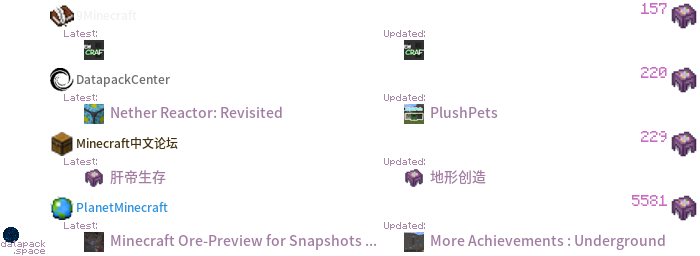
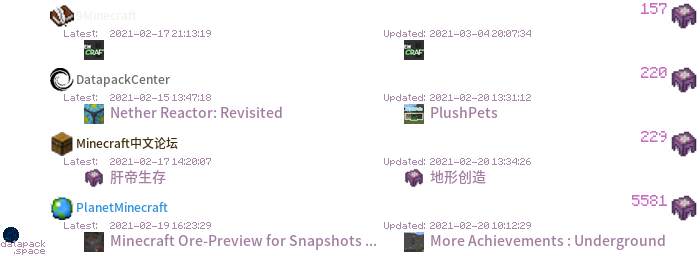
2021.3.10

diff --git a/util/cache.py b/util/cache.py
@@ -212,15 +212,15 @@ class datapack_cache:
                 self.cur.execute(f'''
                 insert into datapack_tag_relations_cache (datapack_id, tag_id, status) values ('{did}', '{tid}', '+')
                 on duplicate key
-                update datapack_id = '{did}', tag_id = '{tid}', status = '+';
+                update status = '+';
                 ''')
-            if tid in tag_id_old:
+            else:
                 tag_id_old.remove(tid)
         for tid in tag_id_old: # delete relation
             self.cur.execute(f'''
             insert into datapack_tag_relations_cache (datapack_id, tag_id, status) values ('{did}', '{tid}', '-')
             on duplicate key
-            update datapack_id = '{did}', tag_id = '{tid}', status = '-';
+            update status = '-';
             ''')
         # cache image
         if not info['author_avatar'] in [None, 'auto', 'none', '']:
@@ -235,7 +235,6 @@ class datapack_cache:
             did = self.cache(info)
             self.connection.commit()
             print(did, ':', info['link'], 'has been imported into cache successfully.')
-
         if interrupt: # the process will quit immediately when error occurs
             insert_process(info)
         else: # the process won't quit when error occurs, but retry or log the error.

diff --git a/util/collector.py b/util/collector.py
@@ -164,10 +164,15 @@ class datapack_collector:
     def __async_analyze(self, target_list: list, interrupt = False):
         def analyze(post):
             def _anl_():
+                post_i = {}
                 if self.schema['post_type'] == 'url':
-                    self.info_list.append(self.__post_analyze(post, self.schema['domain']))
+                    post_i = self.__post_analyze(post, self.schema['domain'])
                 else:
-                    self.info_list.append(self.__post_analyze(post))
+                    post_i = self.__post_analyze(post)
+                if not 'name' in post_i or post_i['name'] in [None, '']:  # invalid datapack
+                    print('error: datapack name cannot be null (may be 404)')
+                    return
+                self.info_list.append(post_i)
             if interrupt:
                 _anl_()
             else:

diff --git a/__stats__.py b/__stats__.py
@@ -142,7 +142,9 @@ def banner_source(info: dict):
         add_img(img, (700 - 0 - 32 + 2, y + 2), (28, 28), BASE_DIR + '/bin/img/css/datapack_default.png')
         add_text(img, (700 - 0 - 32, y), wb['datapacks'], num_color, font, align='right')
         add_text(img, (64, y + 28), 'Latest:', website_color, small_font)
+        add_text(img, (110, y + 28), wb['last_post_time'].strftime("%Y-%m-%d %H:%M:%S"), website_color, small_font)
         add_text(img, (384, y + 28), 'Updated:', website_color, small_font)
+        add_text(img, (430, y + 28), wb['last_update_time'].strftime("%Y-%m-%d %H:%M:%S"), website_color, small_font)
         def set_cover(pos, size, key):
             tmp = Image.open(BASE_DIR + '/bin/img/css/datapack_default.png')
             if os.path.exists(BASE_DIR + '/bin/img/cover/' + wb[key] + '.png'):

diff --git a/__porter__.py b/__porter__.py
@@ -38,10 +38,7 @@ tag_porter.start()
 def datapack_tag_relation_callback(self, cache_dict: dict):
     # no log
     # update quotation count of the tag
-    if cache_dict['status'] == '+':
-        self.cur.execute(f"update tags set quotation = quotation + 1 where id = '{cache_dict['tag_id']}';")
-    elif cache_dict['status'] == '-':
-        self.cur.execute(f"update tags set quotation = quotation - 1 where id = '{cache_dict['tag_id']}';")
+    self.cur.execute(f"update tags set tags.quotation = (select count(*) from datapack_tags where tag_id = id) where id = '{cache_dict['tag_id']}';")
 datapack_tag_relation_porter = record_porter('datapack_tag_relations_cache', 'datapack_tags', callback=datapack_tag_relation_callback)
 datapack_tag_relation_porter.start()
 

diff --git a/main.go b/main.go
@@ -1,9 +1,10 @@
 package main
 
 import (
-	"github.com/gin-gonic/gin"
 	"html/template"
 	"net/http"
+
+	"github.com/gin-gonic/gin"
 )
 
 func SetCookie() gin.HandlerFunc {
@@ -48,6 +49,8 @@ func main() {
 	// Load Resources
 	r.Static("/bin", "./bin")
 	r.StaticFile("/favicon.ico", "./bin/icon/datapackspace.ico")
+	r.StaticFile("/sitemap.xml", "./bin/sitemap.xml")
+	r.StaticFile("/robots.txt", "./bin/robots.txt")
 	r.LoadHTMLGlob("templates/**/*")
 	// Router
 	r.GET("/", index)
